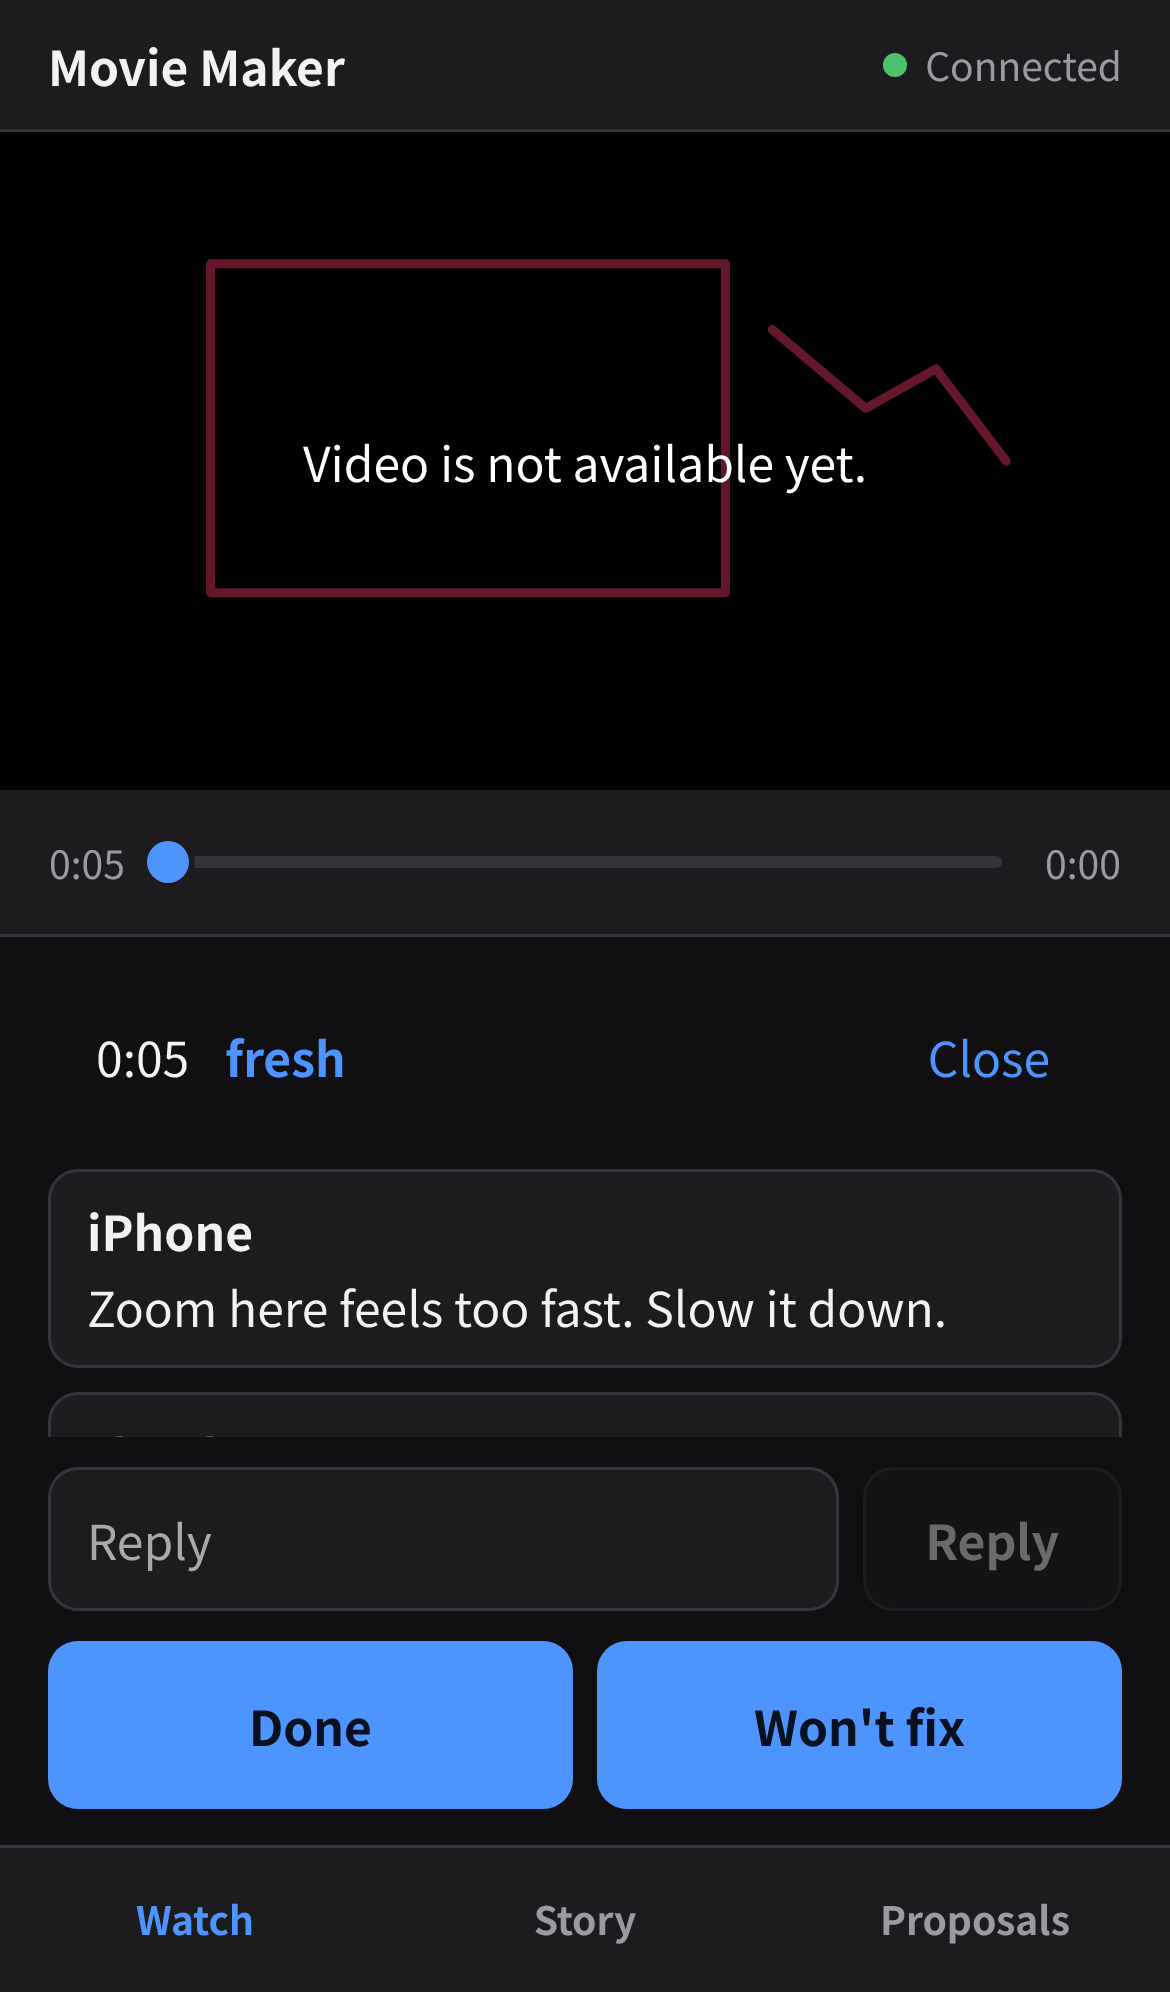
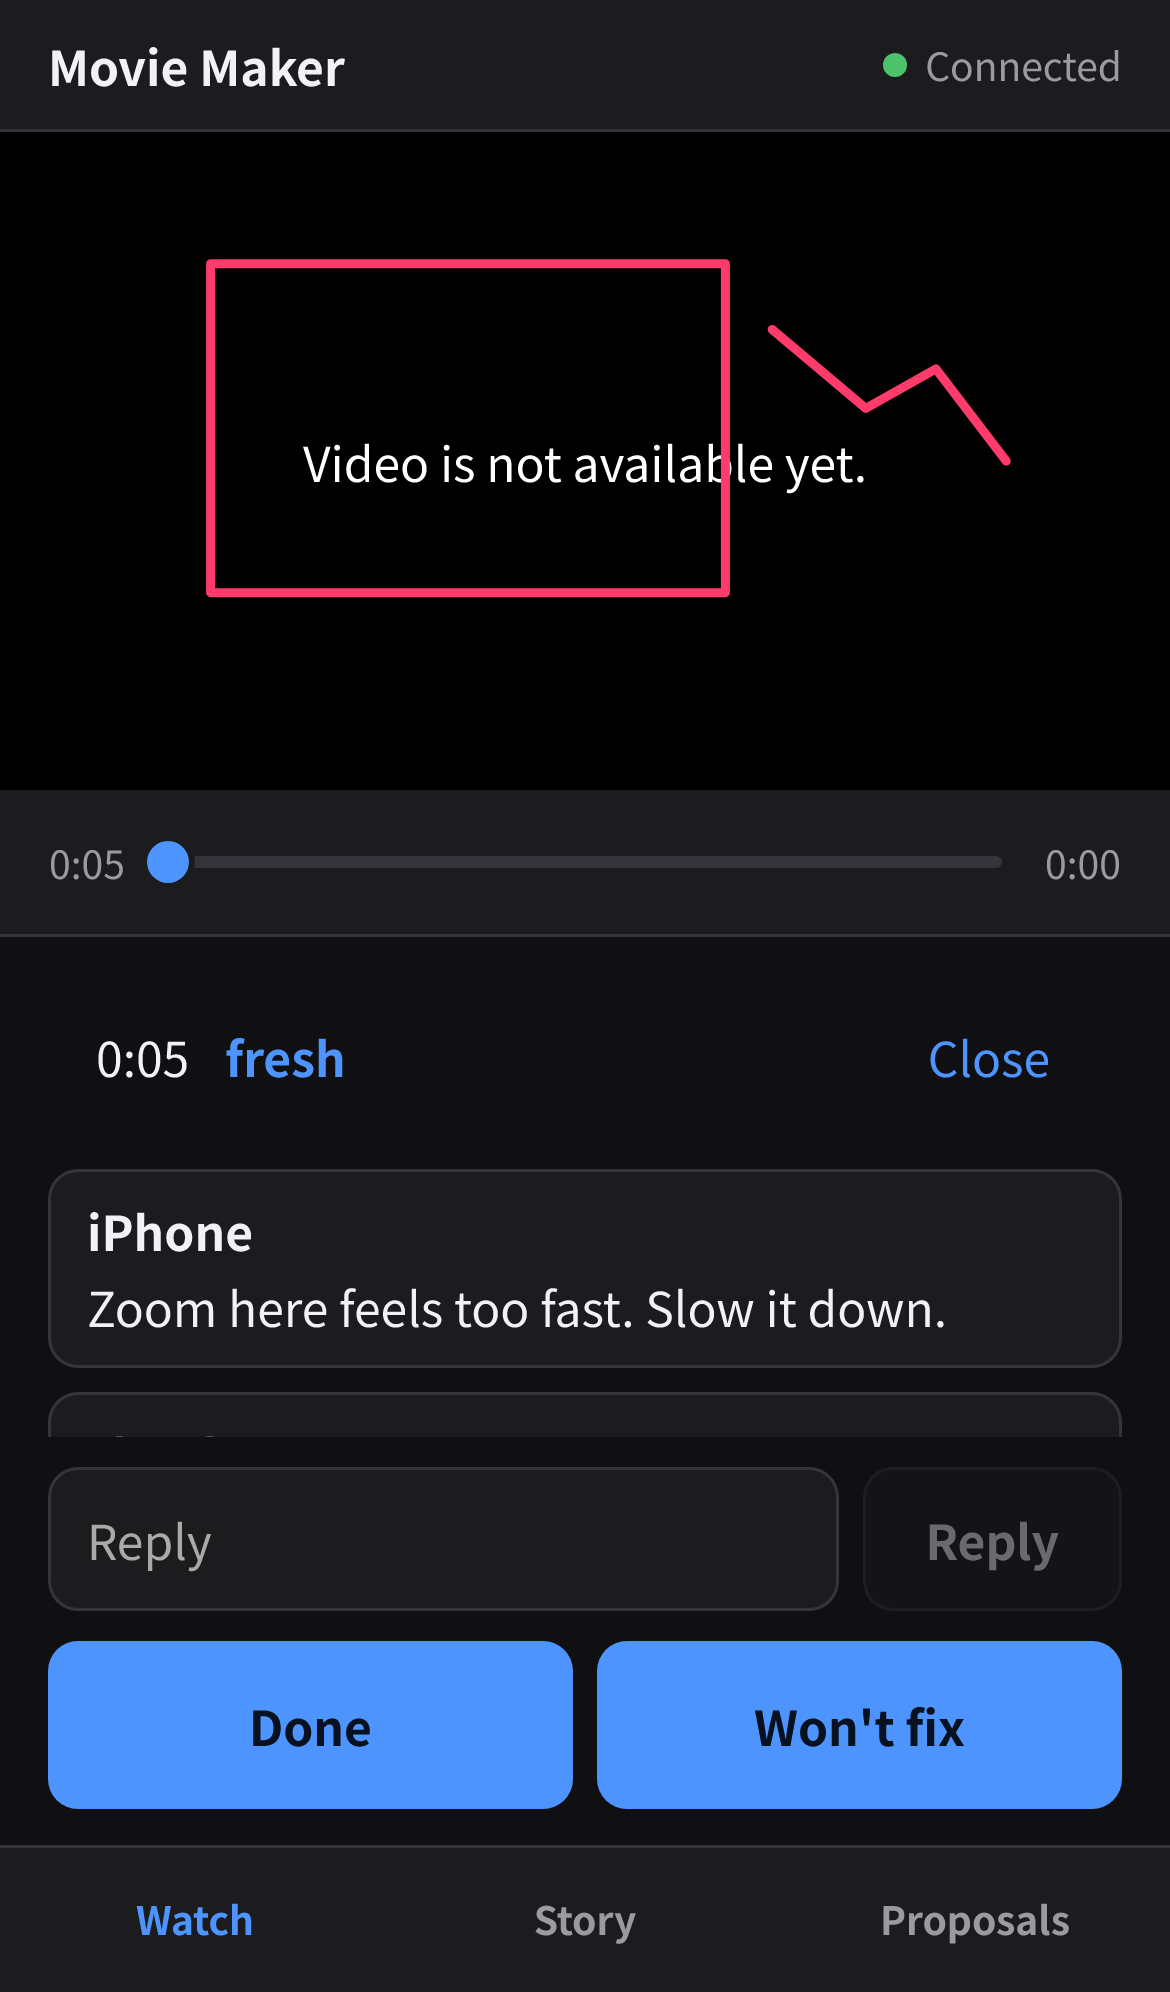
fix(movie-maker): 映像を読めない知らせを描き込みの面の下に置く
知らせの半透明の黒が描いた線を暗くしていた。重なりの順を入れ替え、指の通しは CSS に頼らない。
iPhone の watch-draw と watch-thread のスクリーンショットを撮り直す。

Claude-Session: https://claude.ai/code/session_019jHytrXqejdP9vSdGinNpm

Changed region(s): [[0.1538, 0.1245, 0.7077, 0.3112], [0.7077, 0.1867, 0.8308, 0.2179], [0.8308, 0.2179, 0.8615, 0.249]]

diff --git a/movie-maker/ui/mobile/src/watch/watch.css b/movie-maker/ui/mobile/src/watch/watch.css
@@ -13,8 +13,7 @@ circle.shape { fill: #ff3b6b; }
   background: rgb(0 0 0 / 0.55); display: grid; place-items: center;
 }
 .stage .play svg { width: 32px; height: 32px; fill: #fff; }
-/* 映像を読めないときの知らせは、下の描き込みの面への指を通す（映像が無くても描いて書ける） */
-.overlay { position: absolute; inset: 0; margin: 0; display: grid; place-items: center; color: #fff; background: rgb(0 0 0 / 0.6); pointer-events: none; }
+.overlay { position: absolute; inset: 0; margin: 0; display: grid; place-items: center; color: #fff; background: rgb(0 0 0 / 0.6); }
 
 .scrub { display: flex; align-items: center; gap: 10px; padding: 0 12px; background: var(--surface); border-bottom: 1px solid var(--line); flex: none; }
 .clock { font-size: 13px; color: var(--muted); font-variant-numeric: tabular-nums; min-width: 34px; text-align: center; }

diff --git a/movie-maker/ui/mobile/src/watch/Stage.test.tsx b/movie-maker/ui/mobile/src/watch/Stage.test.tsx
@@ -1,0 +1,16 @@
+// @vitest-environment jsdom
+import { createRef, render } from "preact";
+import { describe, expect, it } from "vitest";
+import type { Editing } from "./DrawLayer.tsx";
+import { Stage } from "./Stage.tsx";
+
+describe("Stage", () => {
+  it("映像を読めない知らせは描き込みの面より下に重なり、描く指と線を覆わない", () => {
+    const root = document.createElement("div");
+    const editing: Editing = { tool: "stroke", onShape: () => undefined };
+    render(<Stage videoRef={createRef()} playing={false} failed shapes={[]} editing={editing} onToggle={() => undefined} />, root);
+    const order = [...root.querySelectorAll(".stage > *")].map((el) => el.classList.item(0));
+    expect(order.indexOf("overlay")).toBeGreaterThan(-1);
+    expect(order.indexOf("overlay")).toBeLessThan(order.indexOf("draw"));
+  });
+});

diff --git a/movie-maker/ui/mobile/src/watch/Stage.tsx b/movie-maker/ui/mobile/src/watch/Stage.tsx
@@ -15,8 +15,9 @@ export interface StageProps {
 export const Stage = ({ videoRef, playing, failed, shapes, editing, onToggle }: StageProps) => (
   <div class="stage">
     <video ref={videoRef} playsInline preload="metadata" onClick={editing ? undefined : onToggle} />
-    <DrawLayer shapes={shapes} editing={editing} />
+    {/* 映像を読めない知らせは描き込みの下に置き、映像が無くても描けて線も暗くならない */}
     {failed && <p class="overlay">Video is not available yet.</p>}
+    <DrawLayer shapes={shapes} editing={editing} />
     {!playing && !failed && !editing && (
       <button type="button" class="play" aria-label="Play" onClick={onToggle}>
         <svg viewBox="0 0 24 24" aria-hidden="true">
